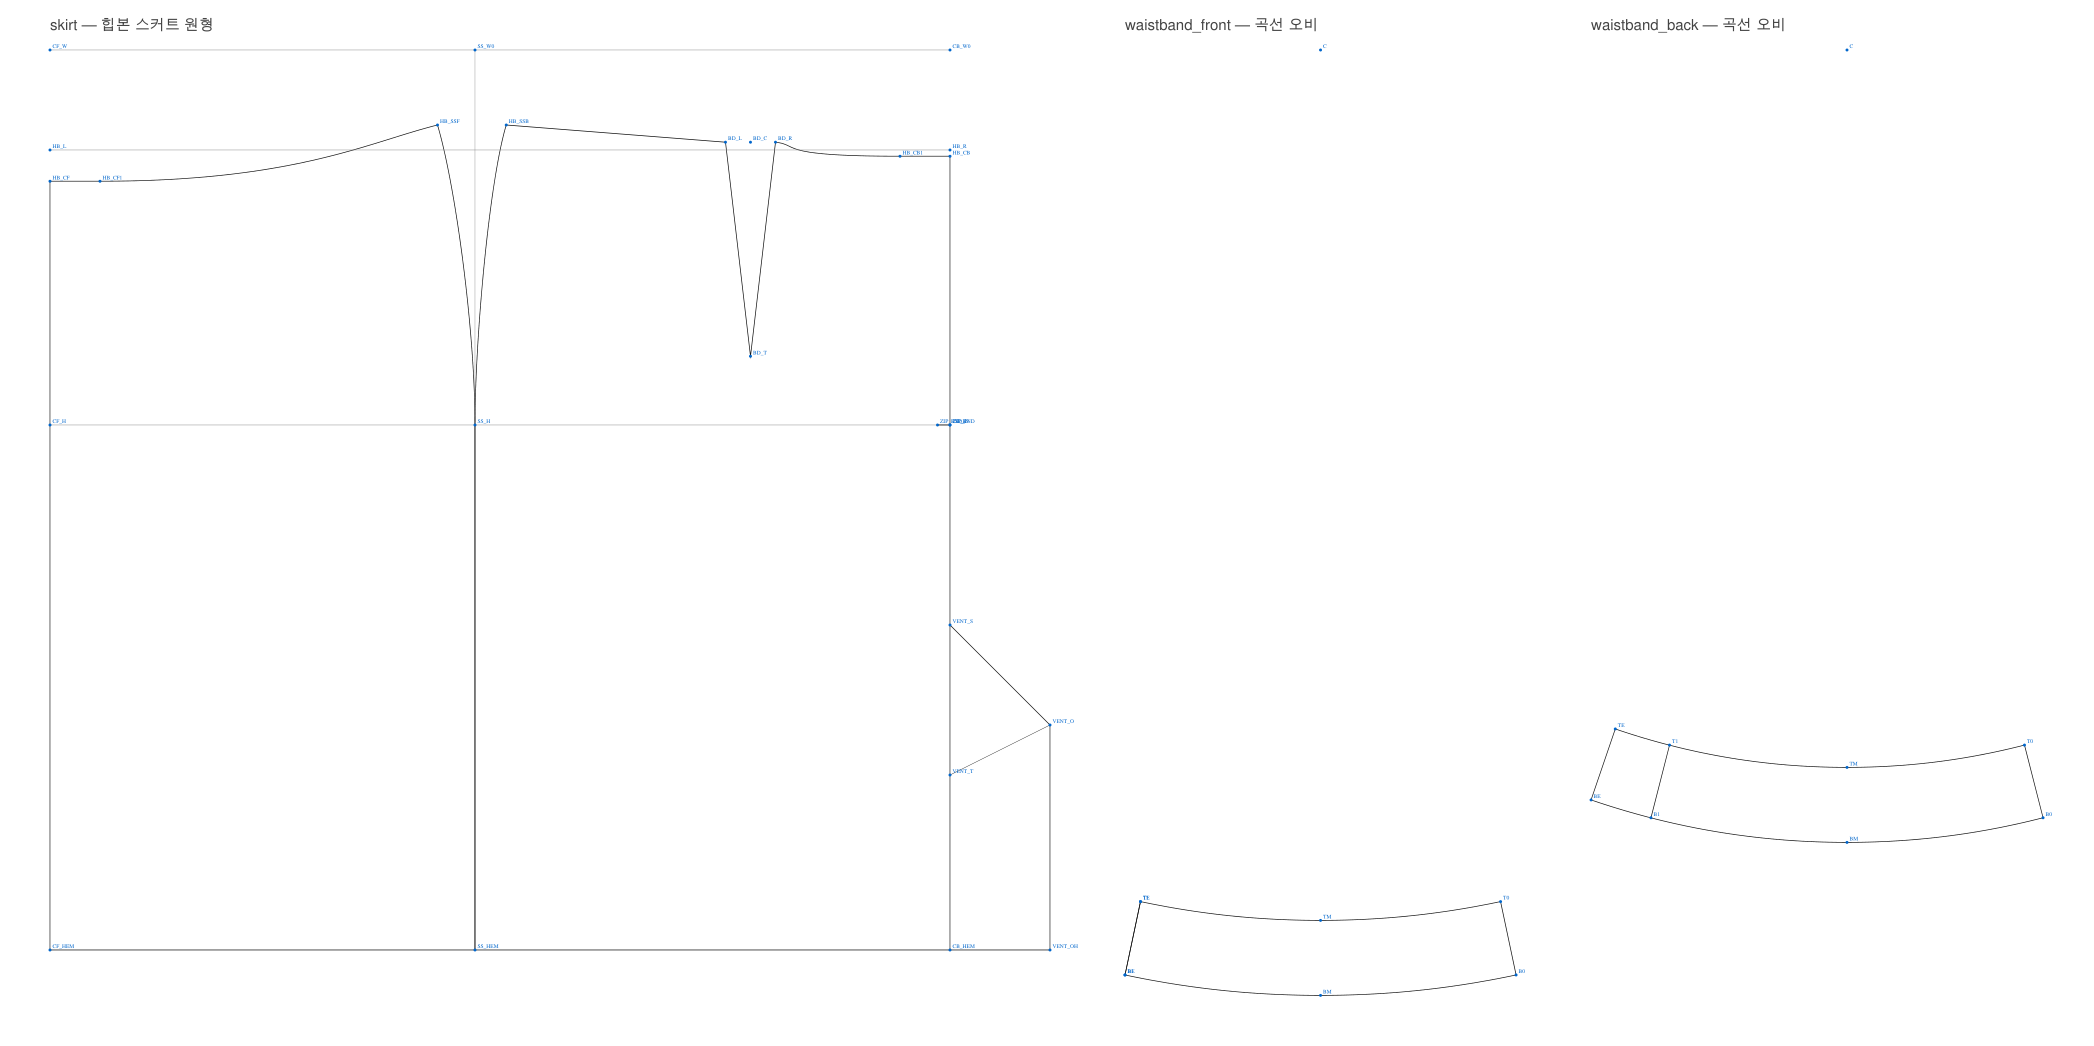
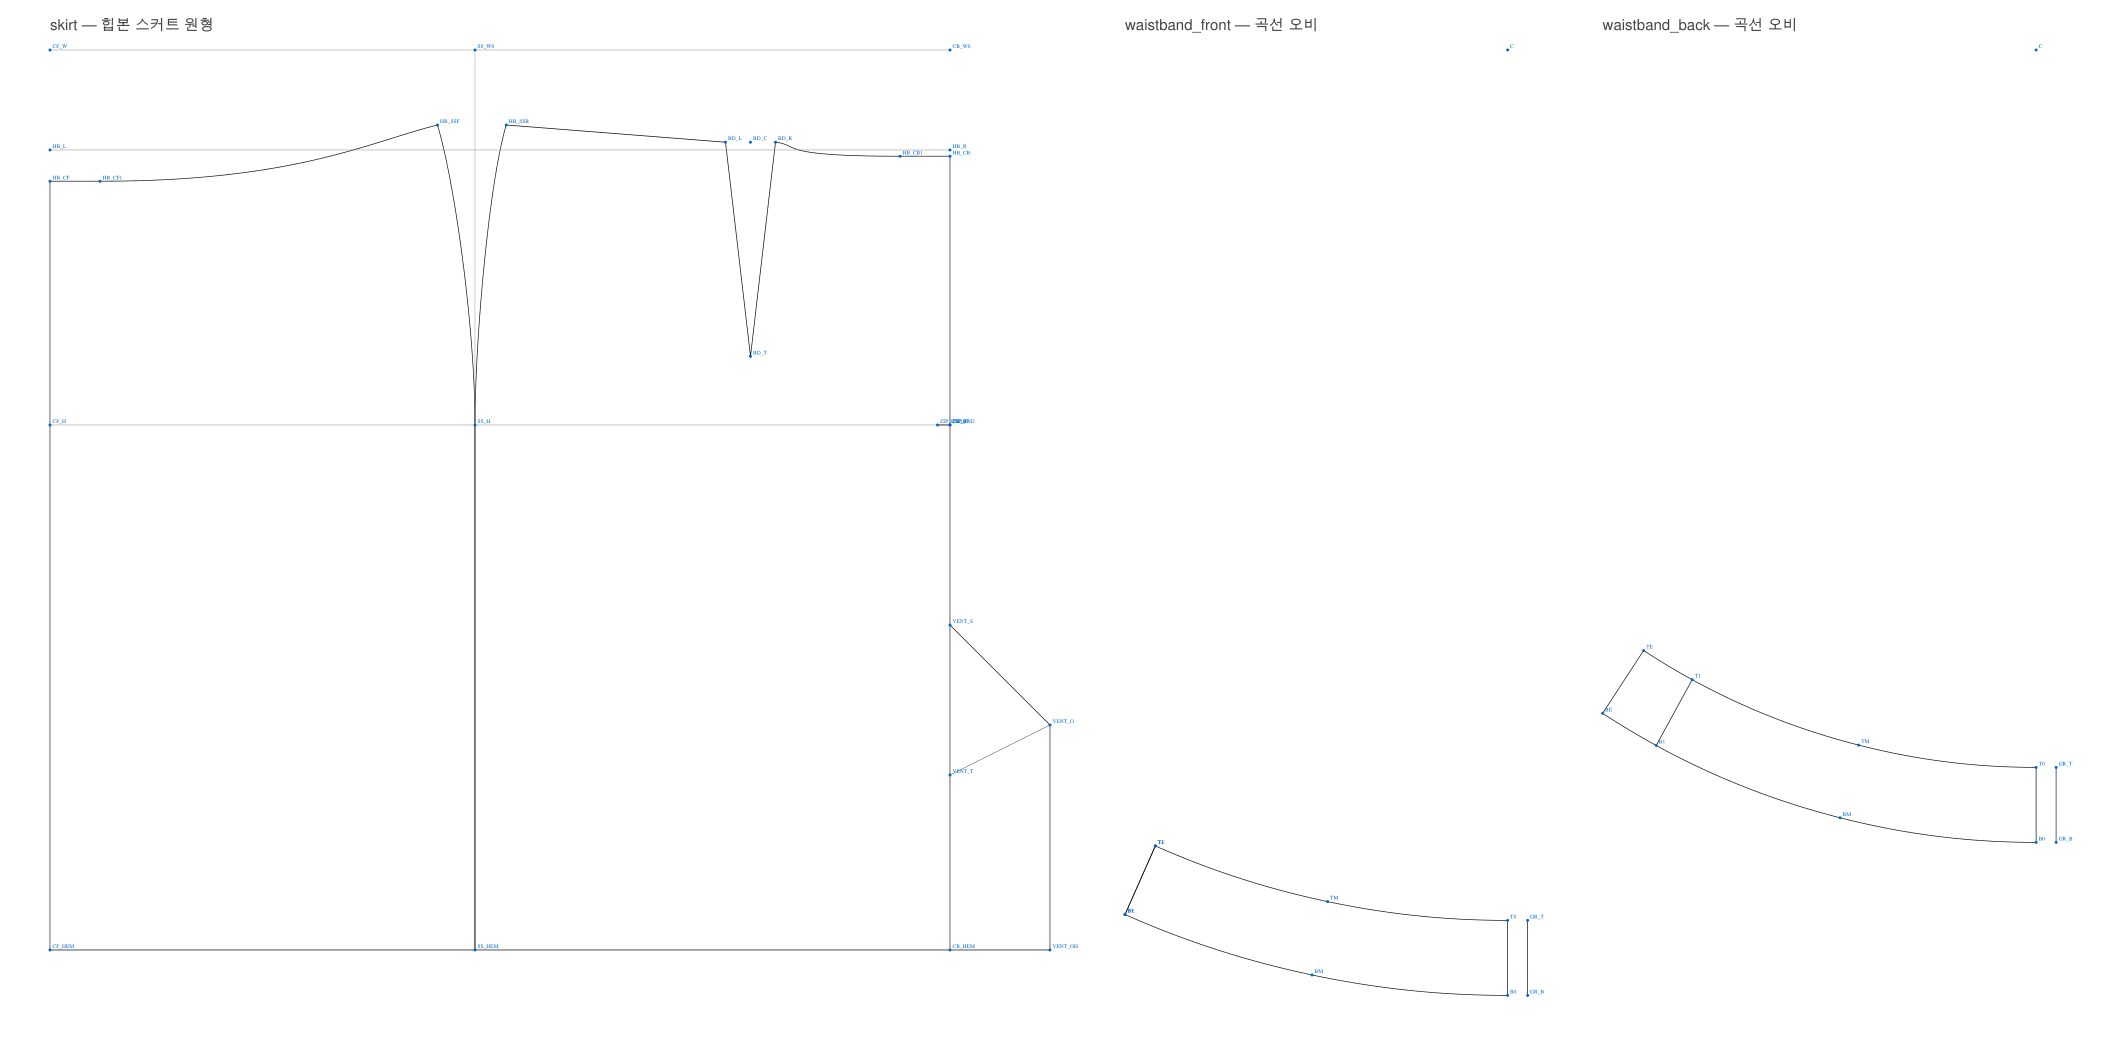
오비 중심 변을 수직으로 세우고 A라인 벌림각 수정
곡선 오비의 앞중심(골) 변이 중심선·식서에 맞게 수직으로 서도록 부채꼴을
90°에서 시작시키고 식서선을 넣는다. A라인 벌림각의 반지름을 기장이 아니라
회전축(허리)에서 밑단까지의 절개 길이로 고쳐 밑단 벌림이 지정한 값과 맞는다.

Claude-Session: https://claude.ai/code/session_01BTGURSN7CBNWrynVskcNog

diff --git a/docs/drafting_notes.md b/docs/drafting_notes.md
@@ -126,6 +126,8 @@
 힙본 스커트로 확인: 몸판 힙본선 둘레 31.6" − (앞 5/8 + 뒤 3/4) × 2 = 28.9" ≈ 사이즈표의 28.1/8".
 (도면 실측 30.8" 로 계산하면 28.05" 로 더 잘 맞는다.)
 
+**오비의 앞중심(골) 변은 수직으로 세워 놓는다** — 중심선·식서에 맞춰야 하기 때문. 부채꼴을 90°에서 시작시키고 식서선을 그 변과 나란히 둔다.
+
 규칙 파일 `blocks/waistband_curved.yaml` 이 이 계산을 한다: 벌어진 각 θ = (밑선 − 윗선)/높이,
 윗선 반지름 = 윗선/θ, 밑선 반지름 = 윗선반지름 + 높이. 스타일 `styles/hipbone_skirt.yaml`.
 
